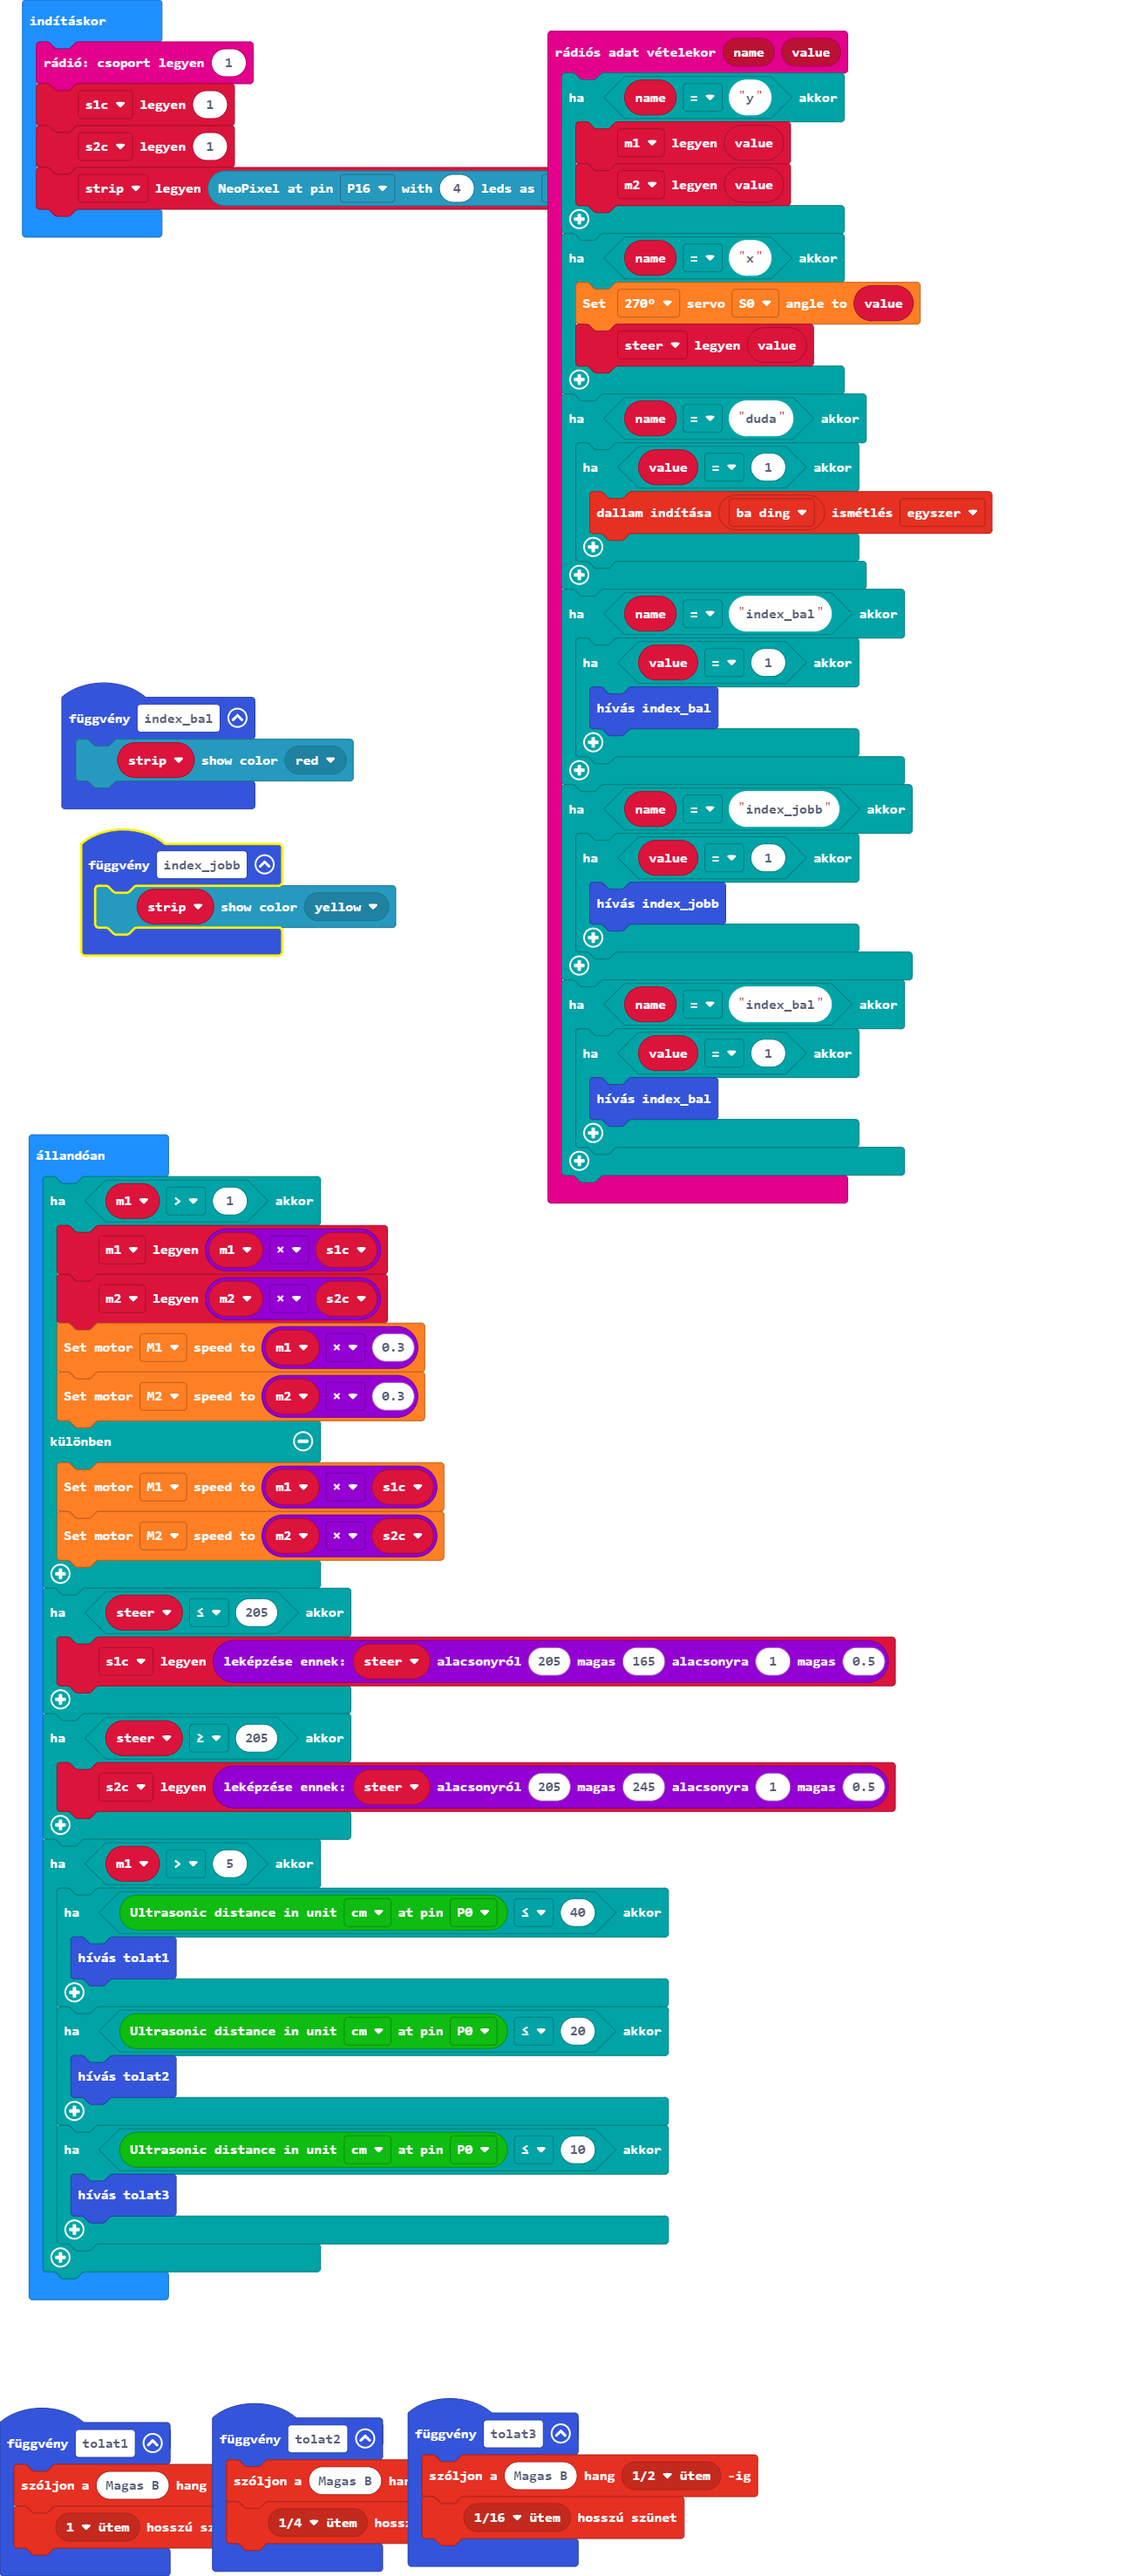
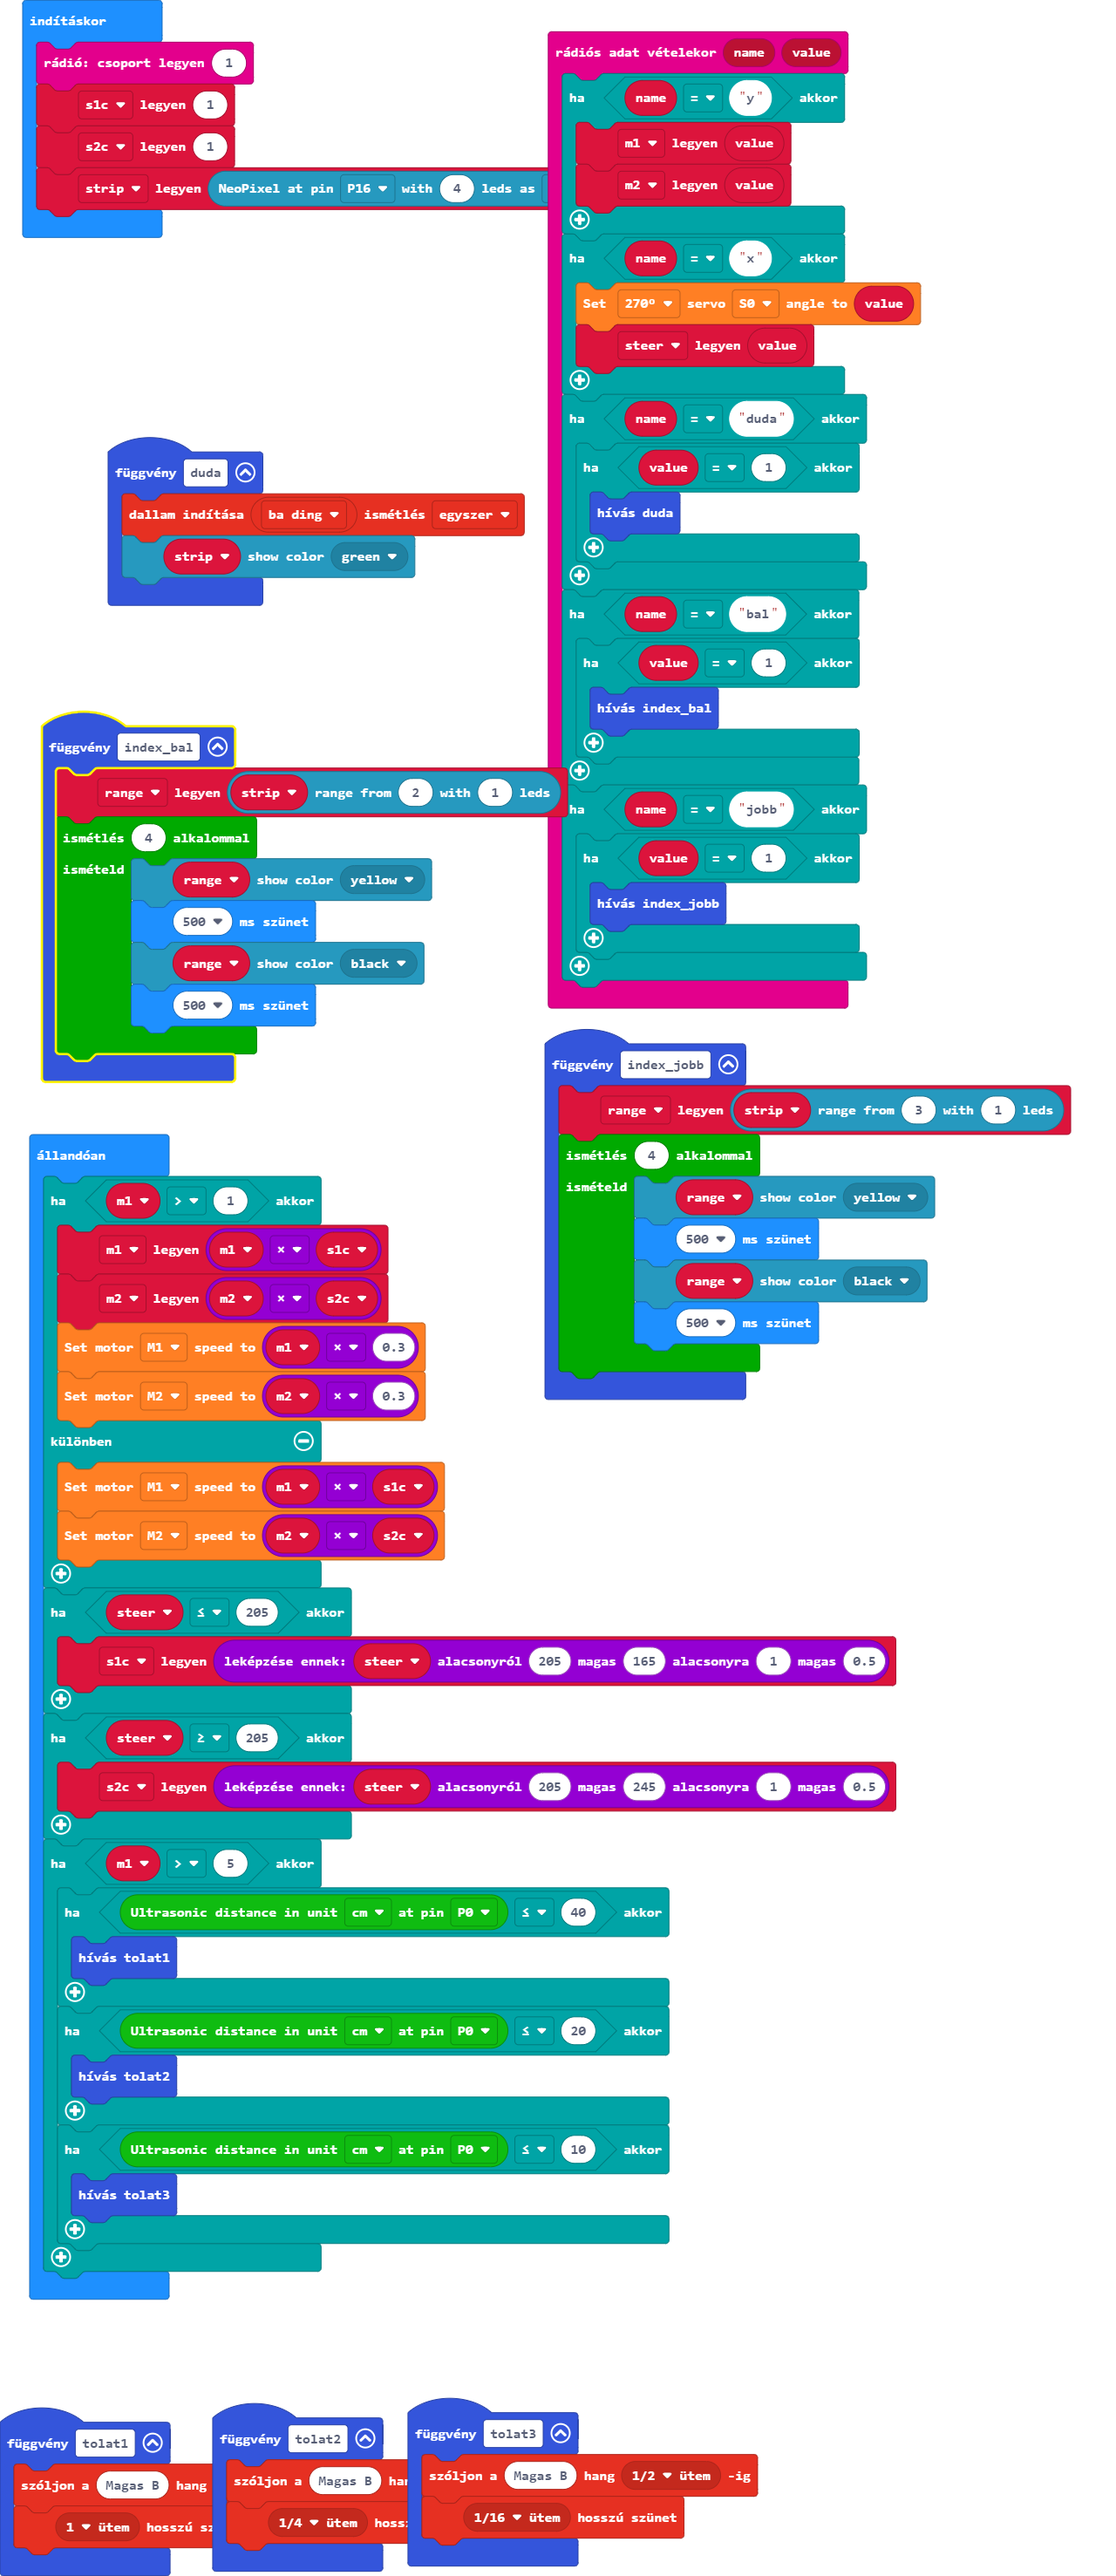
main.blocks, main.ts frissítése

diff --git a/main.ts b/main.ts
@@ -1,16 +1,32 @@
+function duda () {
+    music.startMelody(music.builtInMelody(Melodies.BaDing), MelodyOptions.Once)
+    strip.showColor(neopixel.colors(NeoPixelColors.Green))
+}
 function tolat3 () {
     music.playTone(988, music.beat(BeatFraction.Half))
     music.rest(music.beat(BeatFraction.Sixteenth))
 }
 function index_bal () {
-    strip.showColor(neopixel.colors(NeoPixelColors.Red))
+    range = strip.range(2, 1)
+    for (let index = 0; index < 4; index++) {
+        range.showColor(neopixel.colors(NeoPixelColors.Yellow))
+        basic.pause(500)
+        range.showColor(neopixel.colors(NeoPixelColors.Black))
+        basic.pause(500)
+    }
 }
 function tolat1 () {
     music.playTone(988, music.beat(BeatFraction.Half))
     music.rest(music.beat(BeatFraction.Whole))
 }
 function index_jobb () {
-    strip.showColor(neopixel.colors(NeoPixelColors.Yellow))
+    range = strip.range(3, 1)
+    for (let index = 0; index < 4; index++) {
+        range.showColor(neopixel.colors(NeoPixelColors.Yellow))
+        basic.pause(500)
+        range.showColor(neopixel.colors(NeoPixelColors.Black))
+        basic.pause(500)
+    }
 }
 function tolat2 () {
     music.playTone(988, music.beat(BeatFraction.Half))
@@ -27,28 +43,24 @@ radio.onReceivedValue(function (name, value) {
     }
     if (name == "duda") {
         if (value == 1) {
-            music.startMelody(music.builtInMelody(Melodies.BaDing), MelodyOptions.Once)
+            duda()
         }
     }
-    if (name == "index_bal") {
+    if (name == "bal") {
         if (value == 1) {
             index_bal()
         }
     }
-    if (name == "index_jobb") {
+    if (name == "jobb") {
         if (value == 1) {
             index_jobb()
-        }
-    }
-    if (name == "index_bal") {
-        if (value == 1) {
-            index_bal()
         }
     }
 })
 let steer = 0
 let m2 = 0
 let m1 = 0
+let range: neopixel.Strip = null
 let strip: neopixel.Strip = null
 radio.setGroup(1)
 let s1c = 1
